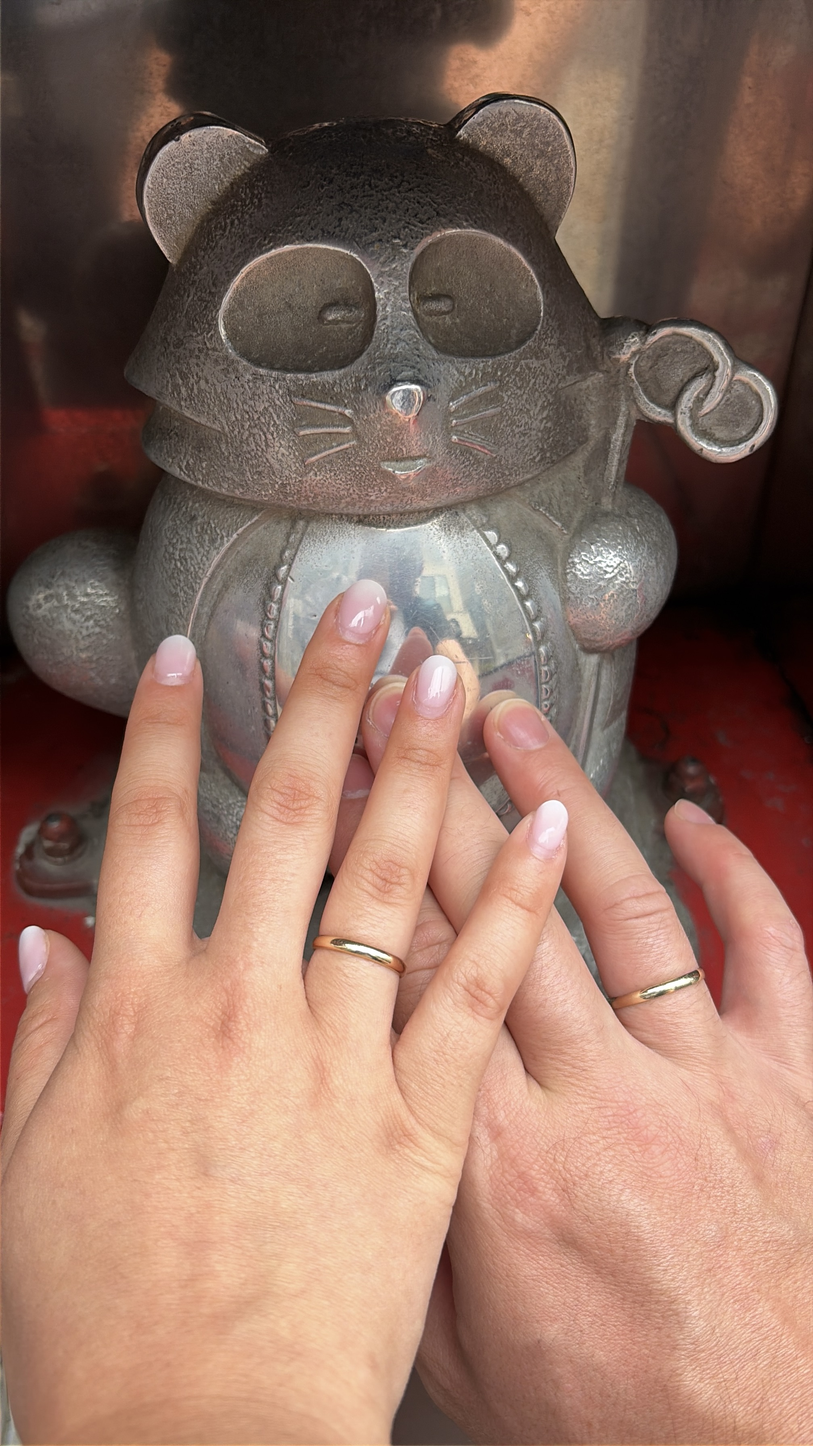
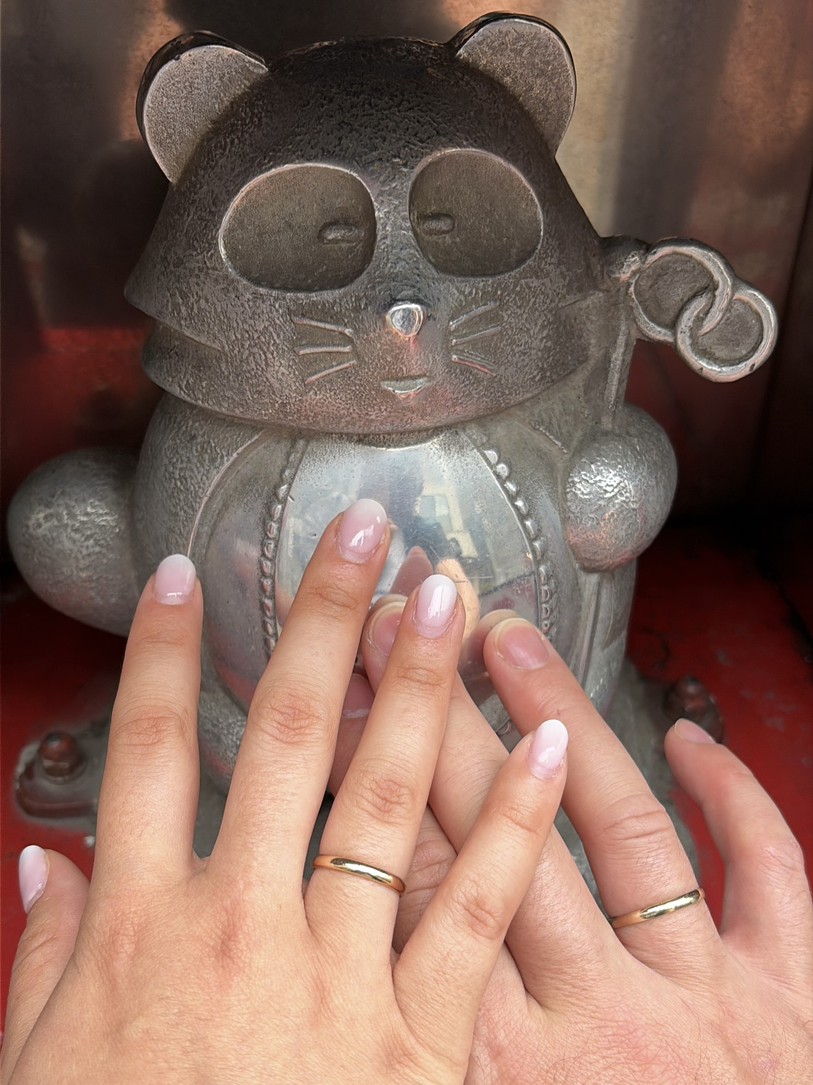
actualizado

diff --git a/honeymoon.html b/honeymoon.html
@@ -192,13 +192,13 @@
     </button>
 
     <!-- Giant Polaroid Frame Card -->
-    <div class="relative bg-amber-50/95 max-w-3xl w-full rounded-lg shadow-2xl p-5 sm:p-8 pt-8 flex flex-col items-center transform scale-95 transition-transform duration-300 modal-lightbox-card border border-stone-200">
+    <div id="lightbox-card" class="relative bg-amber-50/95 w-full rounded-lg shadow-2xl p-5 sm:p-8 pt-8 flex flex-col items-center transform scale-95 transition-all duration-300 modal-lightbox-card border border-stone-200">
       
       <!-- Chincheta para la vista ampliada -->
       <div class="pin !w-6 !h-6 !-top-3"></div>
 
       <!-- Photo Holder -->
-      <div class="relative w-full aspect-[4/3] bg-stone-900 rounded shadow-inner overflow-hidden photo-wrapper flex items-center justify-center mt-2">
+      <div id="lightbox-wrapper" class="relative w-full max-h-[65vh] bg-stone-900 rounded shadow-inner overflow-hidden photo-wrapper flex items-center justify-center mt-2 transition-all duration-300">
         <img id="lightbox-img" class="w-full h-full object-contain">
       </div>
 
@@ -335,6 +335,9 @@
 
     // Modal Lightbox
     const modalLightbox = document.getElementById('modal-lightbox');
+    const lightboxCard = document.getElementById('lightbox-card');
+    const lightboxWrapper = document.getElementById('lightbox-wrapper');
+    const lightboxImg = document.getElementById('lightbox-img');
 
     window.addEventListener('DOMContentLoaded', () => {
       setupEventListeners();
@@ -429,7 +432,28 @@
       const photo = filteredPhotos[currentLightboxIndex];
       if (!photo) return;
 
-      document.getElementById('lightbox-img').src = photo.url;
+      // Escuchar cuando la imagen termine de cargar para calcular sus dimensiones reales
+      lightboxImg.onload = function() {
+        const isVertical = this.naturalHeight > this.naturalWidth;
+
+        if (isVertical) {
+          // Ajustes para foto vertical
+          lightboxCard.classList.remove('max-w-3xl');
+          lightboxCard.classList.add('max-w-md');
+
+          lightboxWrapper.classList.remove('aspect-[4/3]');
+          lightboxWrapper.classList.add('aspect-[3/4]');
+        } else {
+          // Ajustes para foto horizontal o cuadrada
+          lightboxCard.classList.remove('max-w-md');
+          lightboxCard.classList.add('max-w-3xl');
+
+          lightboxWrapper.classList.remove('aspect-[3/4]');
+          lightboxWrapper.classList.add('aspect-[4/3]');
+        }
+      };
+
+      lightboxImg.src = photo.url;
       document.getElementById('lightbox-caption').textContent = photo.caption || '';
       
       const locEl = document.getElementById('lightbox-location');
